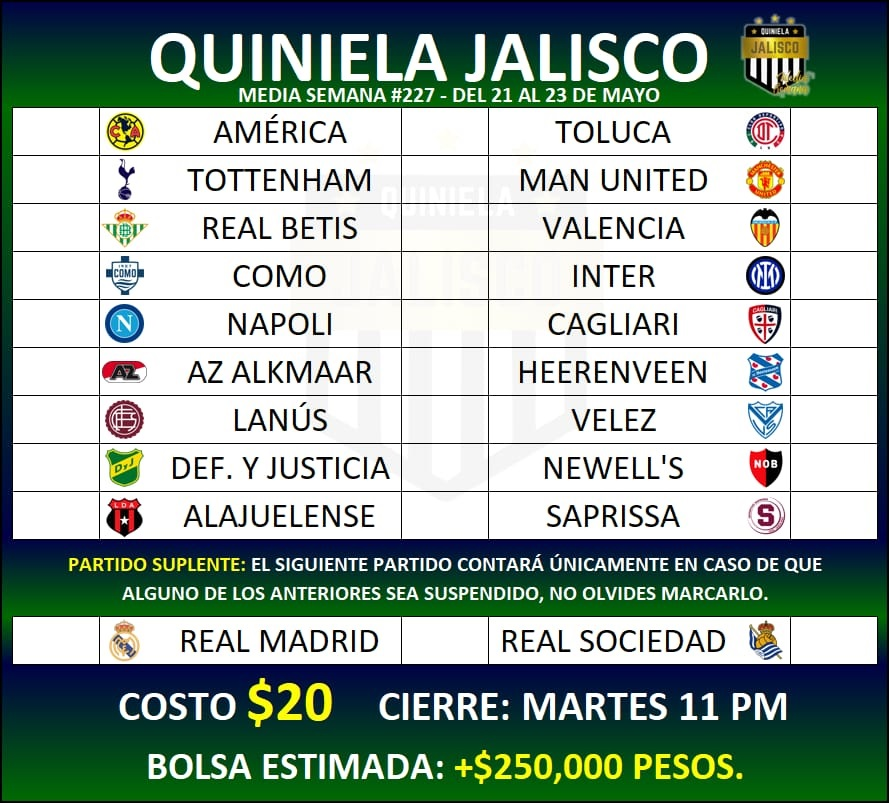
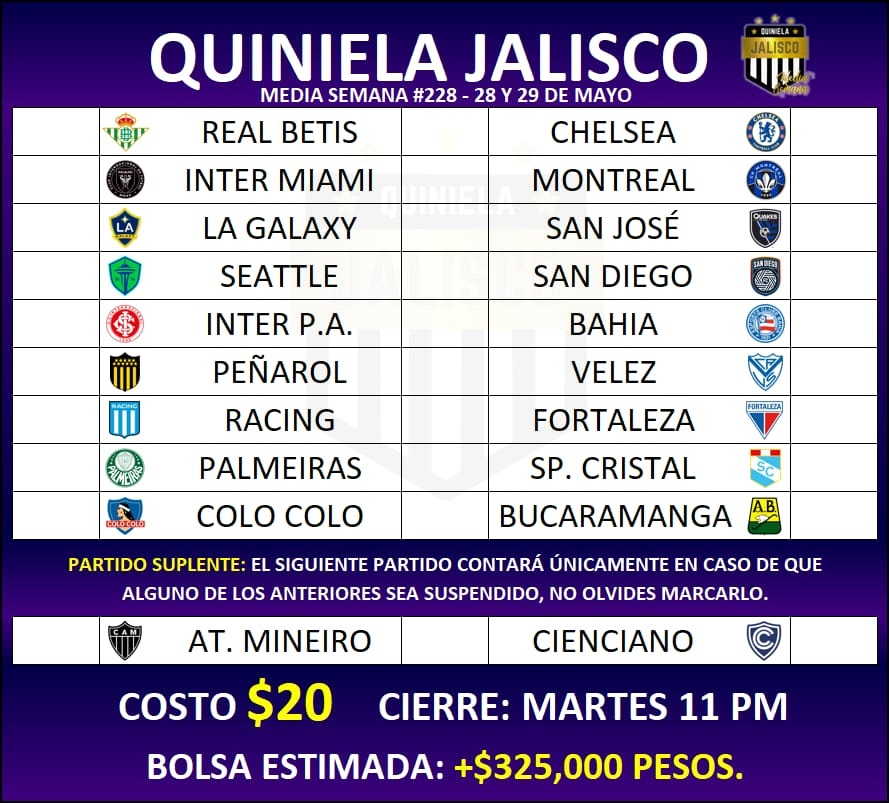
Media Semana #228

diff --git a/MediaSemana/stylesmSusp.css b/MediaSemana/stylesmSusp.css
@@ -94,8 +94,8 @@ body{
     margin-top: 9%;
     border: solid 1px black;
     border-radius: 0 0 14px 14px;
-    background: -webkit-linear-gradient(0.49turn, rgb(0,65,40) -7%, rgb(0 6 82) 80%);
-    background: linear-gradient(0.49turn, rgb(0,65,40) -7%, rgb(0 6 82) 80%);
+    background: -webkit-linear-gradient(0.49turn, rgb(40,0,105) -7%, rgb(0 6 82) 80%);
+    background: linear-gradient(0.49turn, rgb(40,0,105) -7%, rgb(0 6 82) 80%);
 }
 
 .text-lg{
@@ -294,7 +294,7 @@ h6{
 }
 
 #cantidad:before{
-    content:' +$250,000 pesos';
+    content:' +$325,000 pesos';
     color: yellow;
     white-space:pre;
 }
